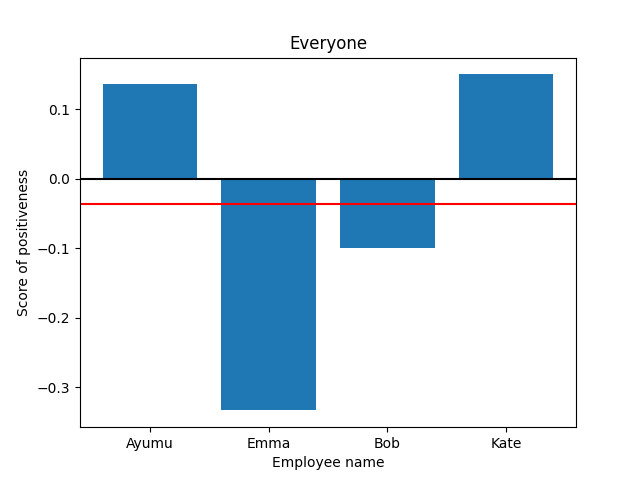
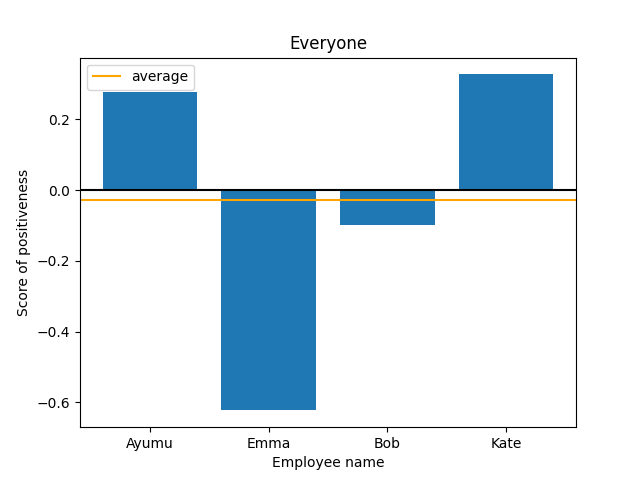
done

diff --git a/hello_bot.py b/hello_bot.py
@@ -19,18 +19,7 @@ SLACK_APP_TOKEN = os.environ["socketoken"]
 
 app = App(token = SLACK_BOT_TOKEN)
 
-#main_data = get_value()
-main_data = {'Ayumu': [['motivation', ':wave:', ':wave:', ':wave:', ':wave:', 'hello', 'I am Ayumu', 'hello-socket-mode', 
-'/ hello-socket-mode', 'hello-socket-mode', '/ hello-socket-mode', '/ hello-socket-mode', 'hello', 'motivation', 'ji', 'hello', 'okay sure', 'ok sure', 
-'that is a good idea', 'this is so boring job', 'this task is not difficult to do I guess', "I don't like this job."], [0.699999988079071, 0.20000000298023224, 
-0.20000000298023224, 0.20000000298023224, 0.20000000298023224, 0.20000000298023224, 0.10000000149011612, 0.0, 0.0, 0.0, 0.0, 0.0, 0.20000000298023224, 0.699999988079071, 
-0.10000000149011612, 0.20000000298023224, 0.30000001192092896, 0.5, 0.8999999761581421, -0.8999999761581421, 0.10000000149011612, -0.8999999761581421]], 
-'Emma': [['I do not want to go to that meeting because it is always boring', 'I am Emma', 'yea that was hard'], [-0.800000011920929, 0.10000000149011612, -0.30000001192092896]], 
-'Bob': [['Tomorrow we have a meeting', 'I am Bob', 'It is so difficult to finish', 'I had a meeting from 6pm', 'Hello'],
- [0.0, 0.10000000149011612, -0.800000011920929, 0.0, 0.20000000298023224]], 
- 'Kate': [[':star-struck:', ':smile:', 'Me tooo', 'I am Kate', 'you are fired', 'I hope I can finish this by tomorrow'], [0.0, 0.6000000238418579,
-  0.699999988079071, 0.10000000149011612, -0.699999988079071, 0.20000000298023224]]}
-
+main_data = get_value()
 
 @app.message(re.compile("(hi|hello|hey)",re.IGNORECASE))
 def say_hello(message,say):
@@ -68,7 +57,7 @@ def answer4(message,say):
   if message["text"] in list(main_data.keys()):
     lista = main_data[message["text"]]
     for sentence, score in zip(lista[0],lista[1]):
-      say(f"{sentence}:{score}")
+      say(f"{sentence} : {score}")
   else:
     say("Try again")
 

diff --git a/viz.py b/viz.py
@@ -5,8 +5,9 @@ def create_viz(list):
     fig = plt.figure()
     ax = fig.add_subplot(111)
     ax.bar(list[0],list[1])
-    ax.axhline(average,label = "average",color ="red")
+    ax.axhline(average, label="average",color ="orange")
     ax.axhline(0,color = "black")
+    ax.legend(["average"])
     ax.set_title("Everyone")
     ax.set_xlabel("Employee name")
     ax.set_ylabel("Score of positiveness")
